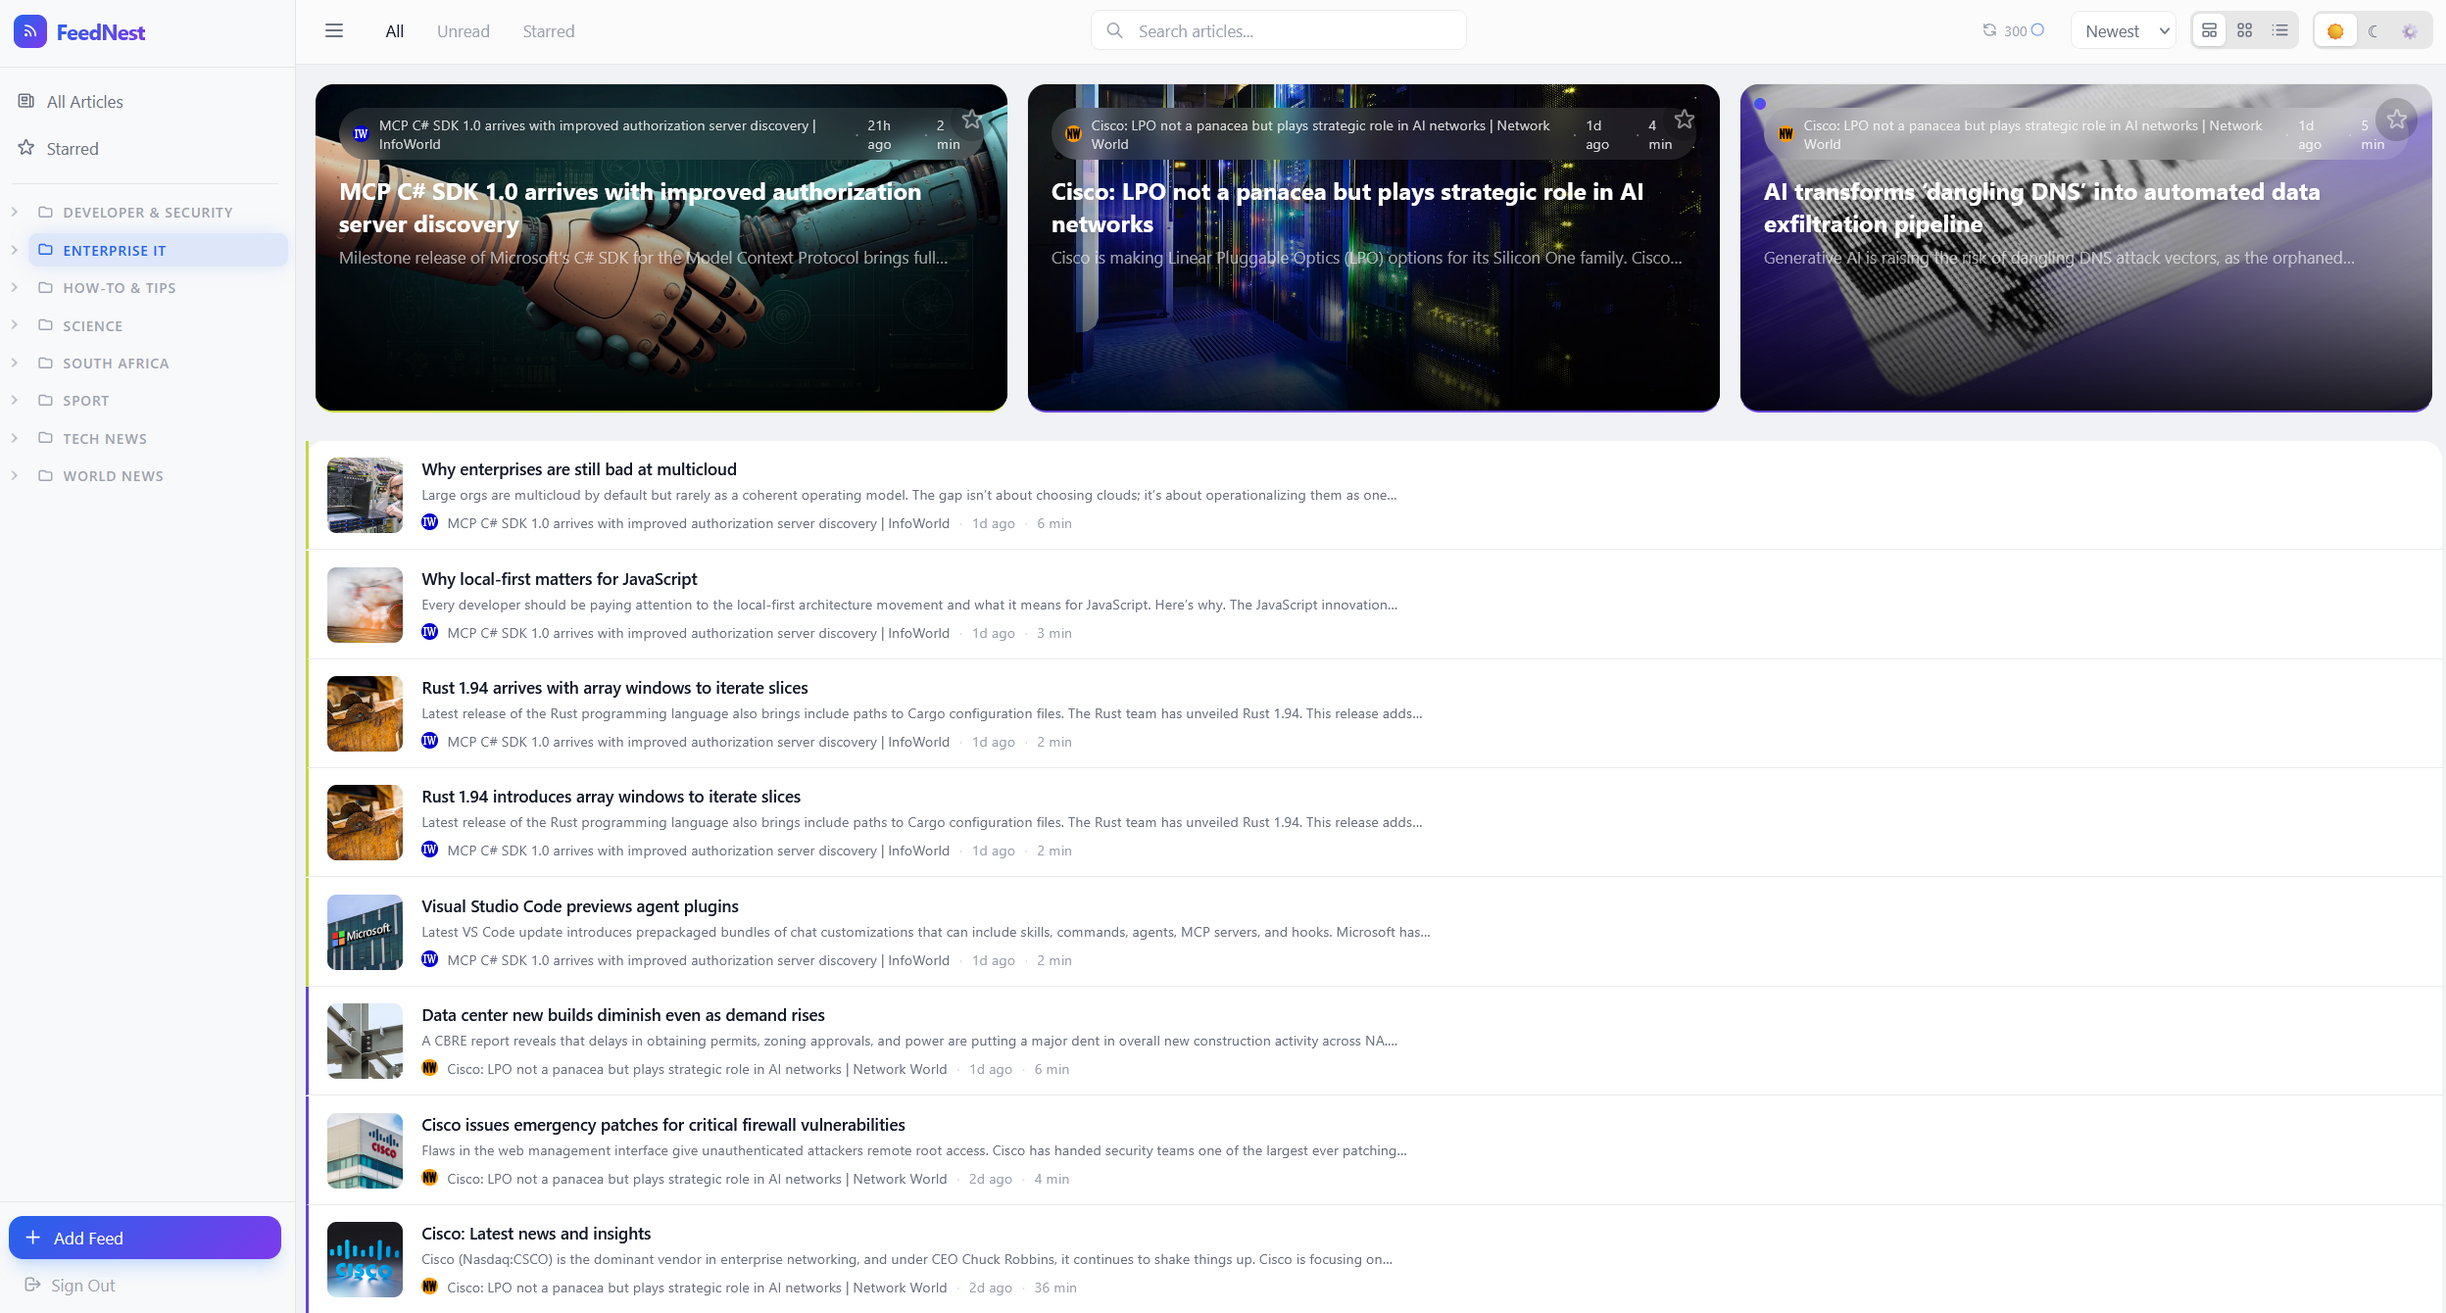
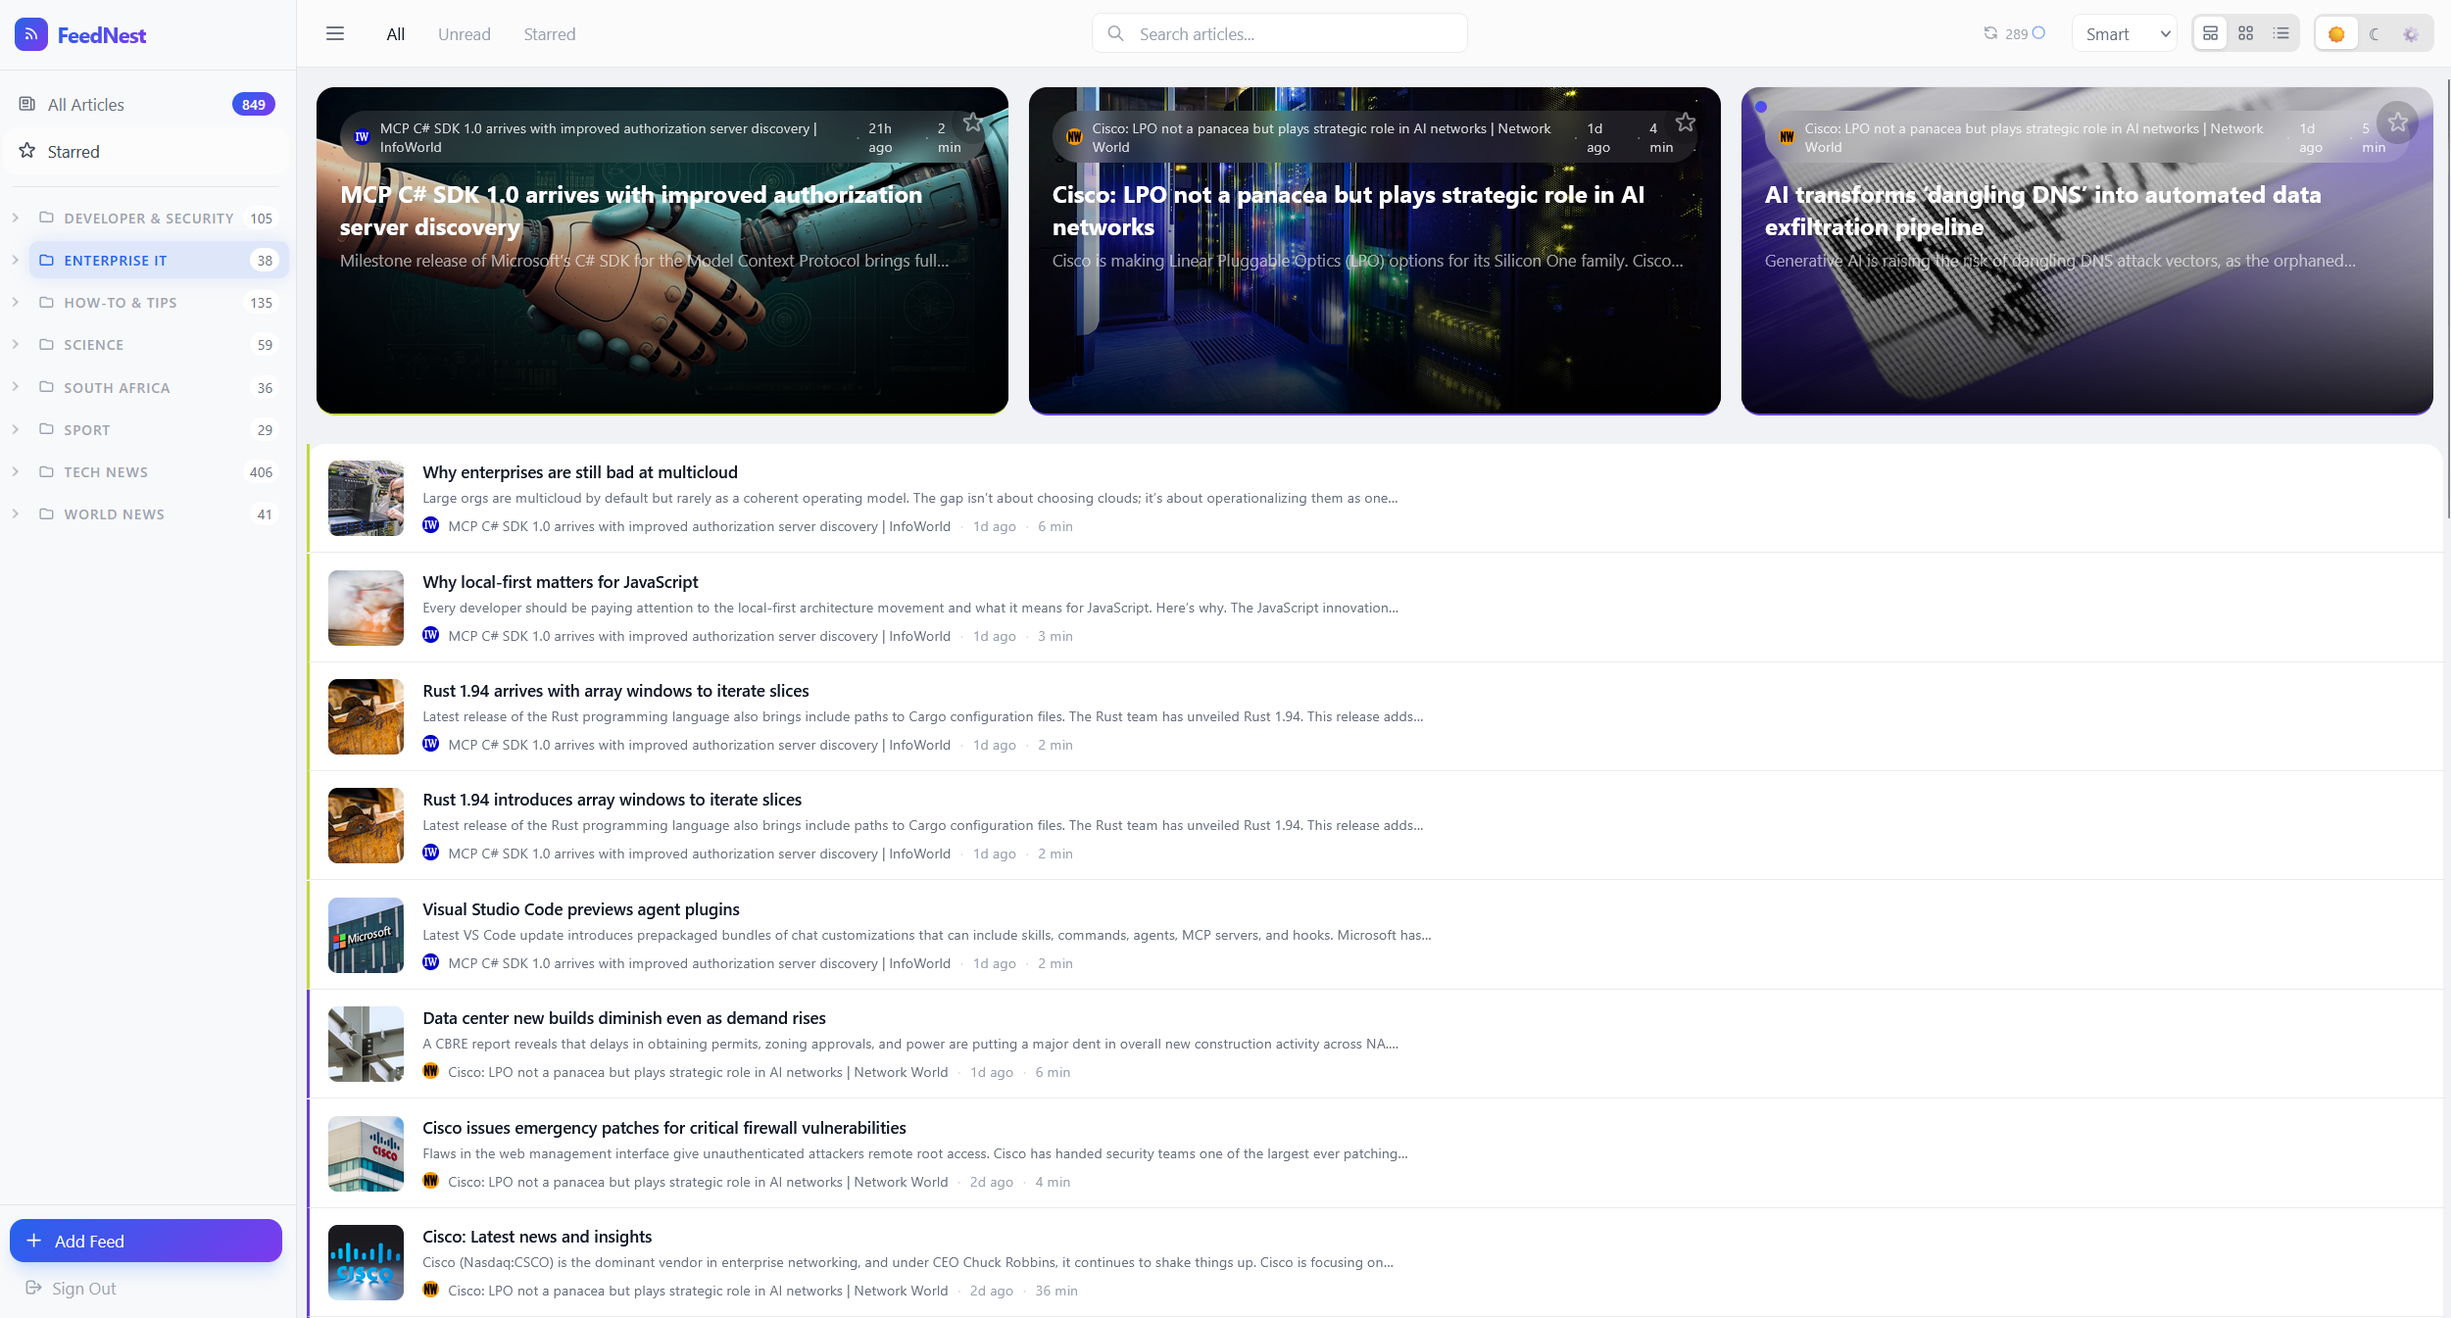
fix: resolve DB permission, countdown timer, and unread count bugs
- Fix Docker entrypoint to chown /data for feednest user (was root-owned,
  causing all write operations including migrations to silently fail)
- Move refresh countdown timer setup before try/finally in onMount so it
  starts even if initial API calls fail
- Add feeds.adjustUnread() for instant sidebar unread count updates when
  articles are opened, toggled, or dismissed
- Add mark-all-read endpoint (POST /api/articles/mark-all-read) supporting
  feed_id and category_id filters
- Add right-click context menus on feeds and categories for "Mark All as Read"
- Fix cookie vulnerability (CVE) via npm override to >=0.7.0
- Replace screenshots with updated versions
- Add error logging for ALTER TABLE migrations

diff --git a/frontend/src/routes/+page.svelte b/frontend/src/routes/+page.svelte
@@ -96,6 +96,7 @@
 		const a = $articles.articles.find((a) => a.id === id);
 		if (a && !a.is_read) {
 			articles.toggleRead(id, true);
+			feeds.adjustUnread(a.feed_id, -1);
 		}
 	}
 
@@ -133,7 +134,17 @@
 		const unreadIds = $articles.articles.filter(a => !a.is_read).map(a => a.id);
 		if (unreadIds.length === 0) return;
 		await api.post('/api/articles/bulk', { action: 'mark_read', article_ids: unreadIds });
-		await articles.load(currentFilters);
+		await Promise.all([articles.load(currentFilters), feeds.load()]);
+	}
+
+	async function markFeedRead(feedId: number) {
+		await api.post('/api/articles/mark-all-read', { feed_id: feedId });
+		await Promise.all([articles.load(currentFilters), feeds.load()]);
+	}
+
+	async function markCategoryRead(categoryId: number) {
+		await api.post('/api/articles/mark-all-read', { category_id: categoryId });
+		await Promise.all([articles.load(currentFilters), feeds.load()]);
 	}
 
 	function selectFeed(id: number) {
@@ -238,23 +249,23 @@
 	}
 
 	onMount(async () => {
-		try {
-			await Promise.all([feeds.load(), categories.load()]);
-			await articles.load(currentFilters);
-		} finally {
-			initialized = true;
-		}
-
-		// Auto-refresh every 60 seconds
+		// Set up timers first so they run regardless of initial load success
 		refreshCountdown = 300;
 		countdownInterval = setInterval(() => {
 			refreshCountdown = Math.max(0, refreshCountdown - 1);
 		}, 1000);
 		refreshInterval = setInterval(async () => {
 			refreshCountdown = 300;
-			await feeds.load();
-			await articles.load(currentFilters);
+			await feeds.load().catch(() => {});
+			await articles.load(currentFilters).catch(() => {});
 		}, 300000);
+
+		try {
+			await Promise.all([feeds.load(), categories.load()]);
+			await articles.load(currentFilters);
+		} finally {
+			initialized = true;
+		}
 
 		cleanupKeyboard = setupKeyboardShortcuts({
 			j: (e) => {
@@ -294,13 +305,17 @@
 				const articleList = $articles.articles;
 				if (selectedIndex >= 0 && selectedIndex < articleList.length) {
 					const a = articleList[selectedIndex];
-					articles.toggleRead(a.id, !a.is_read);
+					const newRead = !a.is_read;
+					articles.toggleRead(a.id, newRead);
+					feeds.adjustUnread(a.feed_id, newRead ? -1 : 1);
 				}
 			},
 			d: (e) => {
 				const articleList = $articles.articles;
 				if (selectedIndex >= 0 && selectedIndex < articleList.length) {
-					articles.dismiss(articleList[selectedIndex].id);
+					const a = articleList[selectedIndex];
+					if (!a.is_read) feeds.adjustUnread(a.feed_id, -1);
+					articles.dismiss(a.id);
 					if (selectedIndex >= articleList.length - 1) {
 						selectedIndex = Math.max(0, articleList.length - 2);
 					}
@@ -423,6 +438,8 @@
 					onSelectFeed={selectFeed}
 					onSelectCategory={selectCategory}
 					onAddFeed={openAddFeed}
+					onMarkFeedRead={markFeedRead}
+					onMarkCategoryRead={markCategoryRead}
 				/>
 			</div>
 		</div>
@@ -639,7 +656,7 @@
 						<div style="background: var(--color-card);">
 							{#each $articles.articles as article, i (article.id)}
 								<div data-article-index={i}>
-									<ArticleList {article} selected={article.id === openArticleId} index={i} onOpen={openArticle} onToggleRead={(id, isRead) => articles.toggleRead(id, isRead)} onToggleStar={(id, isStarred) => articles.toggleStar(id, isStarred)} />
+									<ArticleList {article} selected={article.id === openArticleId} index={i} onOpen={openArticle} onToggleRead={(id, isRead) => { articles.toggleRead(id, isRead); const a = $articles.articles.find(x => x.id === id); if (a) feeds.adjustUnread(a.feed_id, isRead ? -1 : 1); }} onToggleStar={(id, isStarred) => articles.toggleStar(id, isStarred)} />
 								</div>
 							{/each}
 						</div>
@@ -658,7 +675,7 @@
 							<div style="background: var(--color-card);" class="rounded-t-2xl mx-2 mt-2">
 								{#each listArticles as article, i (article.id)}
 									<div data-article-index={$articles.articles.indexOf(article)}>
-										<ArticleList {article} selected={$articles.articles.indexOf(article) === selectedIndex} index={i} onOpen={openArticle} onToggleRead={(id, isRead) => articles.toggleRead(id, isRead)} onToggleStar={(id, isStarred) => articles.toggleStar(id, isStarred)} />
+										<ArticleList {article} selected={$articles.articles.indexOf(article) === selectedIndex} index={i} onOpen={openArticle} onToggleRead={(id, isRead) => { articles.toggleRead(id, isRead); const a = $articles.articles.find(x => x.id === id); if (a) feeds.adjustUnread(a.feed_id, isRead ? -1 : 1); }} onToggleStar={(id, isStarred) => articles.toggleStar(id, isStarred)} />
 									</div>
 								{/each}
 							</div>
@@ -674,7 +691,7 @@
 							<div style="background: var(--color-card);" class="m-2 rounded-2xl overflow-hidden">
 								{#each $articles.articles as article, i (article.id)}
 									<div data-article-index={i}>
-										<ArticleList {article} selected={i === selectedIndex} index={i} onOpen={openArticle} onToggleRead={(id, isRead) => articles.toggleRead(id, isRead)} onToggleStar={(id, isStarred) => articles.toggleStar(id, isStarred)} />
+										<ArticleList {article} selected={i === selectedIndex} index={i} onOpen={openArticle} onToggleRead={(id, isRead) => { articles.toggleRead(id, isRead); const a = $articles.articles.find(x => x.id === id); if (a) feeds.adjustUnread(a.feed_id, isRead ? -1 : 1); }} onToggleStar={(id, isStarred) => articles.toggleStar(id, isStarred)} />
 									</div>
 								{/each}
 							</div>

diff --git a/frontend/src/lib/components/Sidebar.svelte b/frontend/src/lib/components/Sidebar.svelte
@@ -14,6 +14,8 @@
 		onSelectFeed = (_id: number) => {},
 		onSelectCategory = (_id: number) => {},
 		onAddFeed = () => {},
+		onMarkFeedRead = (_id: number) => {},
+		onMarkCategoryRead = (_id: number) => {},
 	}: {
 		collapsed?: boolean;
 		activeFeed?: number | null;
@@ -24,9 +26,12 @@
 		onSelectFeed?: (id: number) => void;
 		onSelectCategory?: (id: number) => void;
 		onAddFeed?: () => void;
+		onMarkFeedRead?: (id: number) => void;
+		onMarkCategoryRead?: (id: number) => void;
 	} = $props();
 
 	let contextMenu = $state<{ feed: Feed; x: number; y: number } | null>(null);
+	let categoryContextMenu = $state<{ category: Category; x: number; y: number } | null>(null);
 	let deletingFeedId = $state<number | null>(null);
 	// Start with all categories collapsed; populated once categories load
 	let collapsedCategories = $state<Set<number>>(new Set());
@@ -84,11 +89,19 @@
 
 	function handleContextMenu(e: MouseEvent, feed: Feed) {
 		e.preventDefault();
+		categoryContextMenu = null;
 		contextMenu = { feed, x: e.clientX, y: e.clientY };
+	}
+
+	function handleCategoryContextMenu(e: MouseEvent, category: Category) {
+		e.preventDefault();
+		contextMenu = null;
+		categoryContextMenu = { category, x: e.clientX, y: e.clientY };
 	}
 
 	function closeContextMenu() {
 		contextMenu = null;
+		categoryContextMenu = null;
 	}
 
 	async function handleDeleteFeed(feed: Feed) {
@@ -268,6 +281,7 @@
 					<!-- Category name (clickable to filter) -->
 					<button
 						onclick={() => onSelectCategory(category.id)}
+						oncontextmenu={(e) => handleCategoryContextMenu(e, category)}
 						class="flex items-center justify-between flex-1 min-w-0 px-2 py-1.5 text-left transition-all rounded-lg cursor-pointer
 							{isActive ? 'glow-active' : 'hover:bg-[var(--color-elevated)]'}"
 					>
@@ -414,6 +428,15 @@
 		class="fixed z-[100] py-1.5 rounded-xl shadow-2xl min-w-[160px] glass border border-[var(--color-border-hover)] fade-in-up"
 		style="left: {contextMenu.x}px; top: {contextMenu.y}px; animation-duration: 100ms;"
 	>
+		<button
+			onclick={() => { if (contextMenu) { onMarkFeedRead(contextMenu.feed.id); closeContextMenu(); } }}
+			class="flex items-center gap-2.5 w-full px-4 py-2 text-sm text-[var(--color-text-secondary)] hover:bg-[var(--color-elevated)] transition-colors"
+		>
+			<svg class="w-4 h-4" fill="none" stroke="currentColor" viewBox="0 0 24 24">
+				<path stroke-linecap="round" stroke-linejoin="round" stroke-width="2" d="M9 12l2 2 4-4m6 2a9 9 0 11-18 0 9 9 0 0118 0z" />
+			</svg>
+			Mark All as Read
+		</button>
 		{#if contextMenu?.feed.last_error}
 			<button
 				onclick={() => { if (contextMenu) { feeds.retry(contextMenu.feed.id); closeContextMenu(); } }}
@@ -433,6 +456,24 @@
 				<path stroke-linecap="round" stroke-linejoin="round" stroke-width="2" d="M19 7l-.867 12.142A2 2 0 0116.138 21H7.862a2 2 0 01-1.995-1.858L5 7m5 4v6m4-6v6m1-10V4a1 1 0 00-1-1h-4a1 1 0 00-1 1v3M4 7h16" />
 			</svg>
 			Remove Feed
+		</button>
+	</div>
+{/if}
+
+<!-- Category context menu -->
+{#if categoryContextMenu}
+	<div
+		class="fixed z-[100] py-1.5 rounded-xl shadow-2xl min-w-[160px] glass border border-[var(--color-border-hover)] fade-in-up"
+		style="left: {categoryContextMenu.x}px; top: {categoryContextMenu.y}px; animation-duration: 100ms;"
+	>
+		<button
+			onclick={() => { if (categoryContextMenu) { onMarkCategoryRead(categoryContextMenu.category.id); closeContextMenu(); } }}
+			class="flex items-center gap-2.5 w-full px-4 py-2 text-sm text-[var(--color-text-secondary)] hover:bg-[var(--color-elevated)] transition-colors"
+		>
+			<svg class="w-4 h-4" fill="none" stroke="currentColor" viewBox="0 0 24 24">
+				<path stroke-linecap="round" stroke-linejoin="round" stroke-width="2" d="M9 12l2 2 4-4m6 2a9 9 0 11-18 0 9 9 0 0118 0z" />
+			</svg>
+			Mark All as Read
 		</button>
 	</div>
 {/if}

diff --git a/frontend/src/lib/stores/feeds.ts b/frontend/src/lib/stores/feeds.ts
@@ -19,7 +19,7 @@ export interface Category {
 }
 
 function createFeedsStore() {
-	const { subscribe, set } = writable<Feed[]>([]);
+	const { subscribe, set, update } = writable<Feed[]>([]);
 
 	return {
 		subscribe,
@@ -41,6 +41,13 @@ function createFeedsStore() {
 		},
 		async retry(id: number) {
 			await api.post(`/api/feeds/${id}/retry`);
+		},
+		adjustUnread(feedId: number, delta: number) {
+			update((feeds) =>
+				feeds.map((f) =>
+					f.id === feedId ? { ...f, unread_count: Math.max(0, f.unread_count + delta) } : f
+				)
+			);
 		},
 	};
 }

diff --git a/backend/internal/store/article_store.go b/backend/internal/store/article_store.go
@@ -262,6 +262,31 @@ func (q *Queries) BulkUpdateArticles(userID int64, articleIDs []int64, action st
 	return err
 }
 
+func (q *Queries) MarkAllRead(userID int64, feedID *int64, categoryID *int64) (int64, error) {
+	var query string
+	var args []interface{}
+
+	if feedID != nil {
+		query = `UPDATE articles SET is_read = 1, read_at = CURRENT_TIMESTAMP
+			WHERE is_read = 0 AND feed_id = ? AND feed_id IN (SELECT id FROM feeds WHERE user_id = ?)`
+		args = []interface{}{*feedID, userID}
+	} else if categoryID != nil {
+		query = `UPDATE articles SET is_read = 1, read_at = CURRENT_TIMESTAMP
+			WHERE is_read = 0 AND feed_id IN (SELECT id FROM feeds WHERE user_id = ? AND category_id = ?)`
+		args = []interface{}{userID, *categoryID}
+	} else {
+		query = `UPDATE articles SET is_read = 1, read_at = CURRENT_TIMESTAMP
+			WHERE is_read = 0 AND feed_id IN (SELECT id FROM feeds WHERE user_id = ?)`
+		args = []interface{}{userID}
+	}
+
+	result, err := q.db.Exec(query, args...)
+	if err != nil {
+		return 0, err
+	}
+	return result.RowsAffected()
+}
+
 func (q *Queries) CreateReadingEvent(articleID int64, eventType string, durationSeconds int) error {
 	_, err := q.db.Exec(
 		"INSERT INTO reading_events (article_id, event_type, duration_seconds) VALUES (?, ?, ?)",

diff --git a/backend/internal/api/handlers/articles.go b/backend/internal/api/handlers/articles.go
@@ -142,6 +142,28 @@ func (h *ArticleHandler) Dismiss(w http.ResponseWriter, r *http.Request) {
 	w.WriteHeader(http.StatusNoContent)
 }
 
+func (h *ArticleHandler) MarkAllRead(w http.ResponseWriter, r *http.Request) {
+	userID := apiutil.ExtractUserID(r)
+
+	var req struct {
+		FeedID     *int64 `json:"feed_id"`
+		CategoryID *int64 `json:"category_id"`
+	}
+	if err := json.NewDecoder(r.Body).Decode(&req); err != nil {
+		http.Error(w, `{"error":"invalid request body"}`, http.StatusBadRequest)
+		return
+	}
+
+	affected, err := h.store.MarkAllRead(userID, req.FeedID, req.CategoryID)
+	if err != nil {
+		http.Error(w, `{"error":"failed to mark as read"}`, http.StatusInternalServerError)
+		return
+	}
+
+	w.Header().Set("Content-Type", "application/json")
+	json.NewEncoder(w).Encode(map[string]int64{"affected": affected})
+}
+
 func (h *ArticleHandler) Bulk(w http.ResponseWriter, r *http.Request) {
 	userID := apiutil.ExtractUserID(r)
 	var req models.BulkArticleRequest

diff --git a/backend/internal/store/migrations.go b/backend/internal/store/migrations.go
@@ -1,6 +1,10 @@
 package store
 
-import "database/sql"
+import (
+	"database/sql"
+	"log"
+	"strings"
+)
 
 func runMigrations(db *sql.DB) error {
 	schema := `
@@ -102,5 +106,14 @@ func runMigrations(db *sql.DB) error {
 }
 
 func runAlterMigrations(db *sql.DB) {
-	db.Exec("ALTER TABLE feeds ADD COLUMN last_error TEXT")
+	alterMigrations := []string{
+		"ALTER TABLE feeds ADD COLUMN last_error TEXT",
+	}
+	for _, stmt := range alterMigrations {
+		if _, err := db.Exec(stmt); err != nil {
+			if !strings.Contains(err.Error(), "duplicate column") {
+				log.Printf("alter migration warning: %v", err)
+			}
+		}
+	}
 }

diff --git a/backend/internal/api/router.go b/backend/internal/api/router.go
@@ -91,6 +91,7 @@ func NewRouter(queries *store.Queries, jwtSecret string, sched *scheduler.Schedu
 
 		articlesH := handlers.NewArticleHandler(queries)
 		r.Get("/api/articles", articlesH.List)
+		r.Post("/api/articles/mark-all-read", articlesH.MarkAllRead)
 		r.Post("/api/articles/bulk", articlesH.Bulk)
 		r.Get("/api/articles/{id}", articlesH.Get)
 		r.Put("/api/articles/{id}", articlesH.Update)

diff --git a/README.md b/README.md
@@ -26,13 +26,13 @@ No tracking. No ads. No algorithms deciding what you see.
 
 <br/>
 
-<img src="assets/screenshot-reader-light.png" alt="Reading pane with split view" width="100%"/>
+<img src="assets/screenshot-hybrid-light.png" alt="Hybrid view — light theme" width="100%"/>
 
 <br/>
 
 <p align="center">
-<img src="assets/screenshot-hybrid-light.png" alt="Hybrid view — light theme" width="49%"/>
-<img src="assets/screenshot-hybrid-dark.png" alt="Hybrid view — dark theme" width="49%"/>
+<img src="assets/screenshot-reader-light.png" alt="Reading pane — light theme" width="49%"/>
+<img src="assets/screenshot-reader-dark.png" alt="Reading pane — dark theme" width="49%"/>
 </p>
 
 </div>
